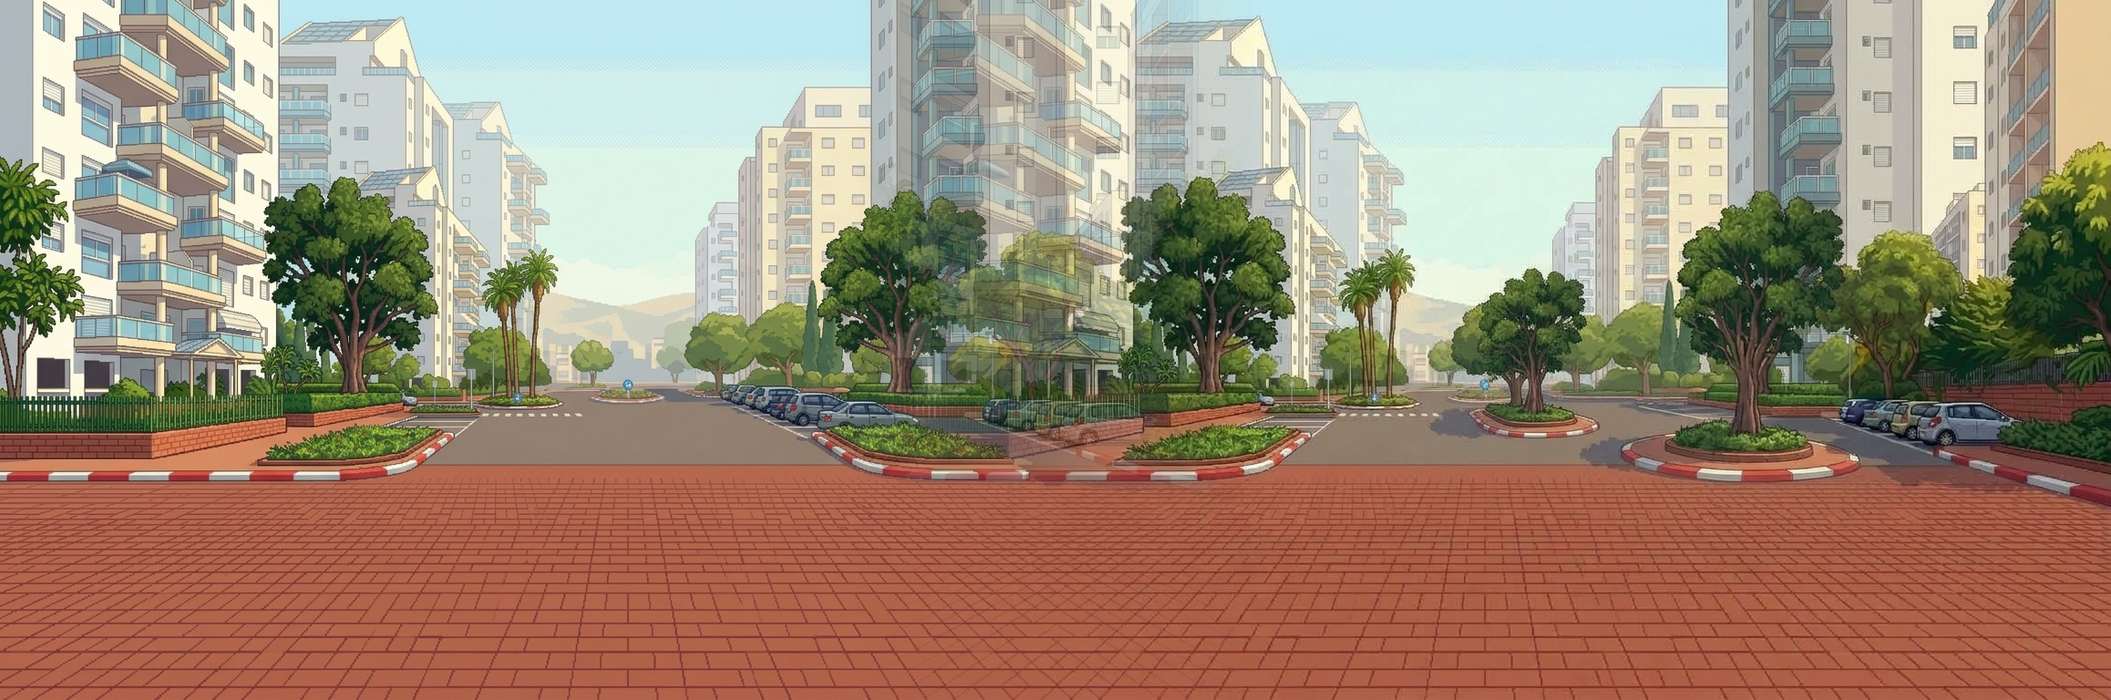
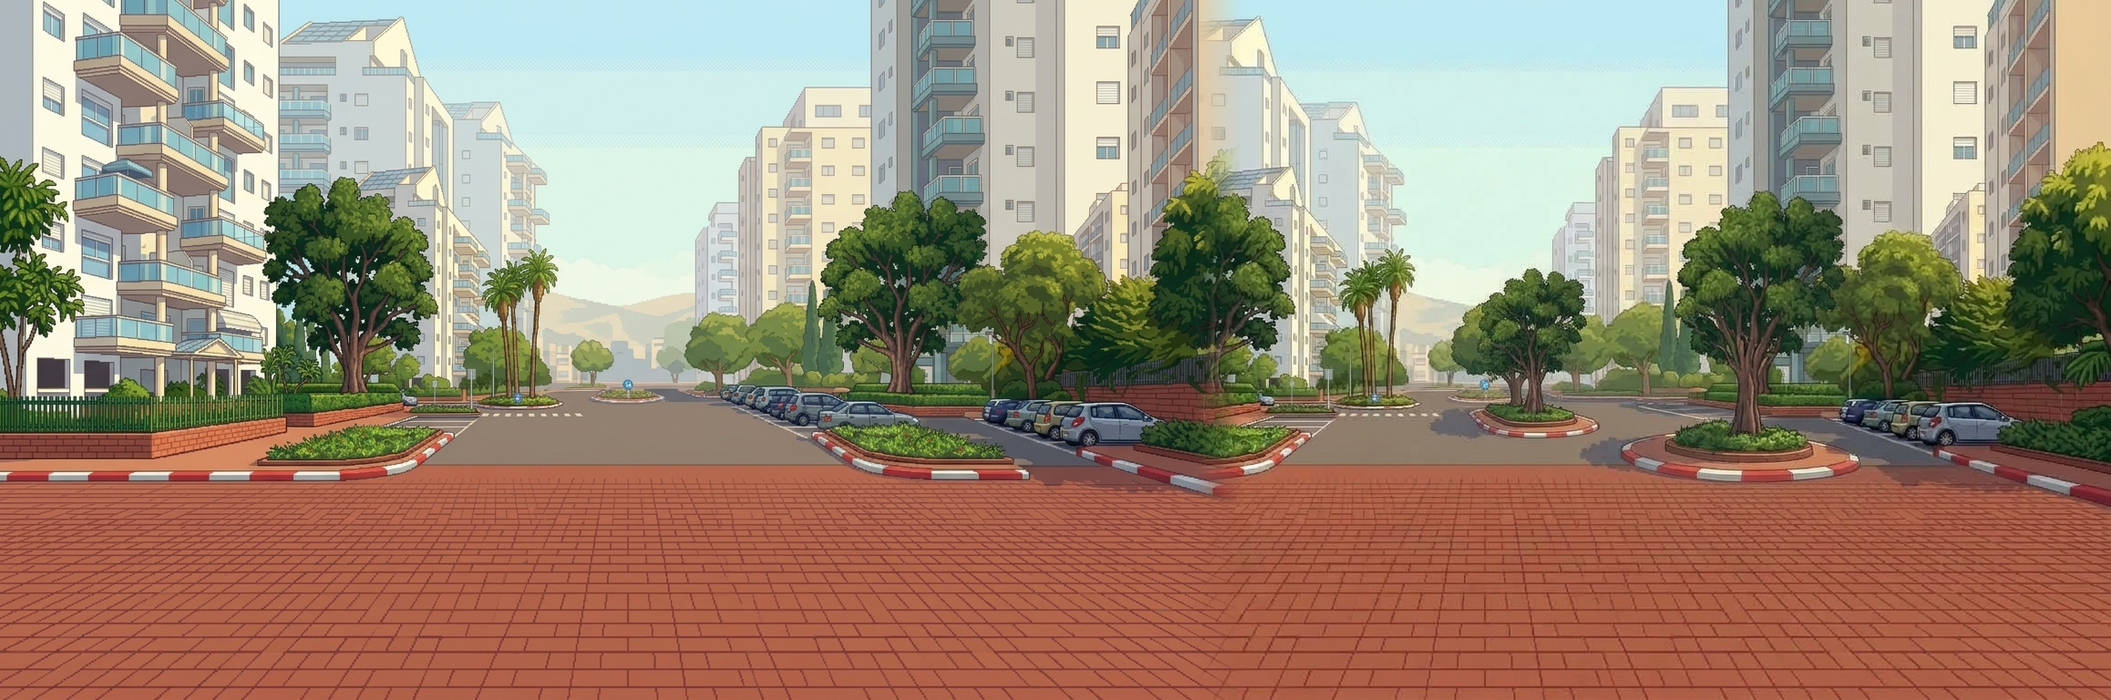
Backdrops 1/2/3/5 re-placed without height crop or ghosting: stitch cuts at the best-matching column (any number of tiles), place-backdrop keeps the full plate height and pads the right; lane tint is a gradient over the lane instead of a 24% rectangle over most of the view; brief asks for 21:9 expli

Changed region(s): [[0.4311, 0.0, 0.585, 0.72]]

diff --git a/src/render/Backdrop.ts b/src/render/Backdrop.ts
@@ -1,6 +1,6 @@
 import Phaser from 'phaser';
 import type { LevelEntry } from '../shared/catalog';
-import { VIEW_W, VIEW_H } from '../sim/types';
+import { VIEW_W, VIEW_H, FLOOR_TOP, LANE_H } from '../sim/types';
 
 /** Backdrop + entry reveal + contrast band. Each level has exactly one (non-repeating) plate that
  * fills the world rectangle the catalog gives it (`level.art`): new plates fill ART_BAND — the band
@@ -12,7 +12,7 @@ export class Backdrop {
   private scene: Phaser.Scene;
   private bg: Phaser.GameObjects.Image;
   private entry: Phaser.GameObjects.Container | null = null;
-  private contrastBand: Phaser.GameObjects.Rectangle;
+  private contrastBand: Phaser.GameObjects.Image;
   private level: LevelEntry;
   private art: { x: number; y: number; w: number; h: number };
   private lastCameraX = 0;
@@ -23,8 +23,19 @@ export class Backdrop {
     this.art = level.art ?? { x: 0, y: 0, w: level.size.w * (VIEW_H / level.size.h), h: VIEW_H };
     this.bg = scene.add.image(this.art.x, this.art.y, `${level.id}-bg`).setOrigin(0, 0).setDisplaySize(this.art.w, this.art.h);
     container.add(this.bg);
-    // Fixed screen-space readability overlay over the combat band — not part of the scrolling world.
-    this.contrastBand = scene.add.rectangle(0, VIEW_H * 0.45, VIEW_W, VIEW_H * 0.4, 0x0b1730, 0.24).setOrigin(0, 0).setScrollFactor(0);
+    // Readability tint over the fighting lane only: a vertical gradient that fades in over the 30 world
+    // px above the lane's far edge and stays at 18% down to the bottom of the view, so sprites read
+    // against the ground without a hard line across the scenery. It lives in the (zoomed) world
+    // container, sized in world units, and is not scrolled with the backdrop.
+    const key = 'lane-tint';
+    if (!scene.textures.exists(key)) {
+      const c = scene.textures.createCanvas(key, 1, 64)!;
+      const g = c.getContext().createLinearGradient(0, 0, 0, 64);
+      g.addColorStop(0, 'rgba(11,23,48,0)'); g.addColorStop(0.2, 'rgba(11,23,48,0.18)'); g.addColorStop(1, 'rgba(11,23,48,0.18)');
+      c.getContext().fillStyle = g; c.getContext().fillRect(0, 0, 1, 64); c.refresh();
+    }
+    const top = FLOOR_TOP - 30, bottom = FLOOR_TOP + LANE_H + 80;
+    this.contrastBand = scene.add.image(-VIEW_W, top, key).setOrigin(0, 0).setDisplaySize(VIEW_W * 3, bottom - top);
     container.add(this.contrastBand);
   }
 

diff --git a/docs/prompts/gemini-backdrops.md b/docs/prompts/gemini-backdrops.md
@@ -29,6 +29,9 @@ Read first, in this order:
 - Attach the reference images listed in the level's Request card **as images** to the generation request; attach the
   current plate too (it fixes the composition). If the tool cannot take attachments, describe the references in one
   extra sentence and go on.
+- **Set the image aspect ratio to 21:9 on every request** (the model supports it; the first run left it at 16:9 and
+  the halves came out 1254×700, too narrow for a 4:1 plate). If your tool really cannot set 21:9, generate a **third
+  tile** the same way ("continue this exact scene to the right", previous tile attached) and stitch all three.
 - **A plate is two 21:9 generations, stitched.** The finished plate is 4:1 (2800×700) and no image model outputs that
   in one go, so every level is: request 1 = the Prompt as the left part at **21:9**; request 2 = *same session, request-1
   image attached*, the "continue this exact scene to the right" line from the Request card, also 21:9; then
@@ -52,8 +55,11 @@ Read first, in this order:
    node tools/place-backdrop.mjs <N> docs/refs/locations/NN-<id>/gen-plate.png
    npm run build:assets && npm run test:assets
    ```
-   The stitch prints the overlap it found and the mean pixel difference; a difference above ~40 means the halves do not
-   match — look at `gen-plate.png` for a hard seam before accepting.
+   The stitch prints each join's overlap and mean pixel difference and flags **HIGH** when a tile did not repeat the
+   previous one; it cuts at the best-matching column so nothing ghosts, but look at `gen-plate.png` for a hard seam
+   before accepting. `place-backdrop` never crops height: a plate narrower than 4:1 is placed at the left and the rest
+   is a blurred extension — it prints how many of the 5 waves the real art covers. **Accept only if that is ≥ the
+   level's wave count** (3 for every level today) — otherwise add a third tile.
 5. **Look at** `public/game/levels/bg-NN.webp` and judge it against the "Accept when" line in the Request card.
    If it fails, regenerate the half at fault **once** with the failing rule repeated first and **bolded**, re-stitch and
    re-place; if it fails again, delete `public/assets/generated/backdrops/level-NN.png` (the build falls back to the old

diff --git a/docs/locations/README.md b/docs/locations/README.md
@@ -4,7 +4,7 @@ The ten levels are real places from the family's life (level order and names are
 `src/sim/levels.ts` / `public/game/catalog.json`). Each file below names the place, links its Street
 View, lists the reference photos on disk, says what the current plate gets wrong and carries a
 ready-to-paste prompt to redraw the backdrop so it looks like the real spot. Delivery is one 4:1 plate
-per level (two 21:9 generations stitched with `tools/stitch-backdrop.mjs`) — `node tools/place-backdrop.mjs <level> <plate>` then
+per level (two or three 21:9 generations stitched with `tools/stitch-backdrop.mjs`; `place-backdrop` never crops height) — `node tools/place-backdrop.mjs <level> <plate>` then
 `npm run build:assets`.
 
 **Work order (family places first):** 1 → 2 → 5 → 3 → 4 → 10 → 6 → 7 → 8 → 9. Each file has a *Request card* with

diff --git a/docs/prompts/QUEUE-LOG.md b/docs/prompts/QUEUE-LOG.md
@@ -143,3 +143,4 @@
 
 
 
+2026-09-14 00:55 backdrops 1 2 3 5 reviewed (assistant): Gemini delivered 16:9 halves (1254×700, aspect ratio not set) that mostly did not repeat the previous tile; the old stitch feathered a ghost tower into level 1 and place-backdrop cover-cropped ~30% of the height. Fixed: stitch cuts at the best-matching column (N tiles), place-backdrop keeps full height and pads the right (art covers 3 waves on 1/2/5, 2 on 3). All four re-placed from the same halves; the lane tint is now a gradient over the lane only (it was darkening most of the view). Level 3 wants a third tile. Hero cards saba-kobi/shmuel were modified off-brief by the running agent at 00:44–00:49 — restored from git, candidates parked under backups/replaced/hero-cards-unasked-2026-09-14.
